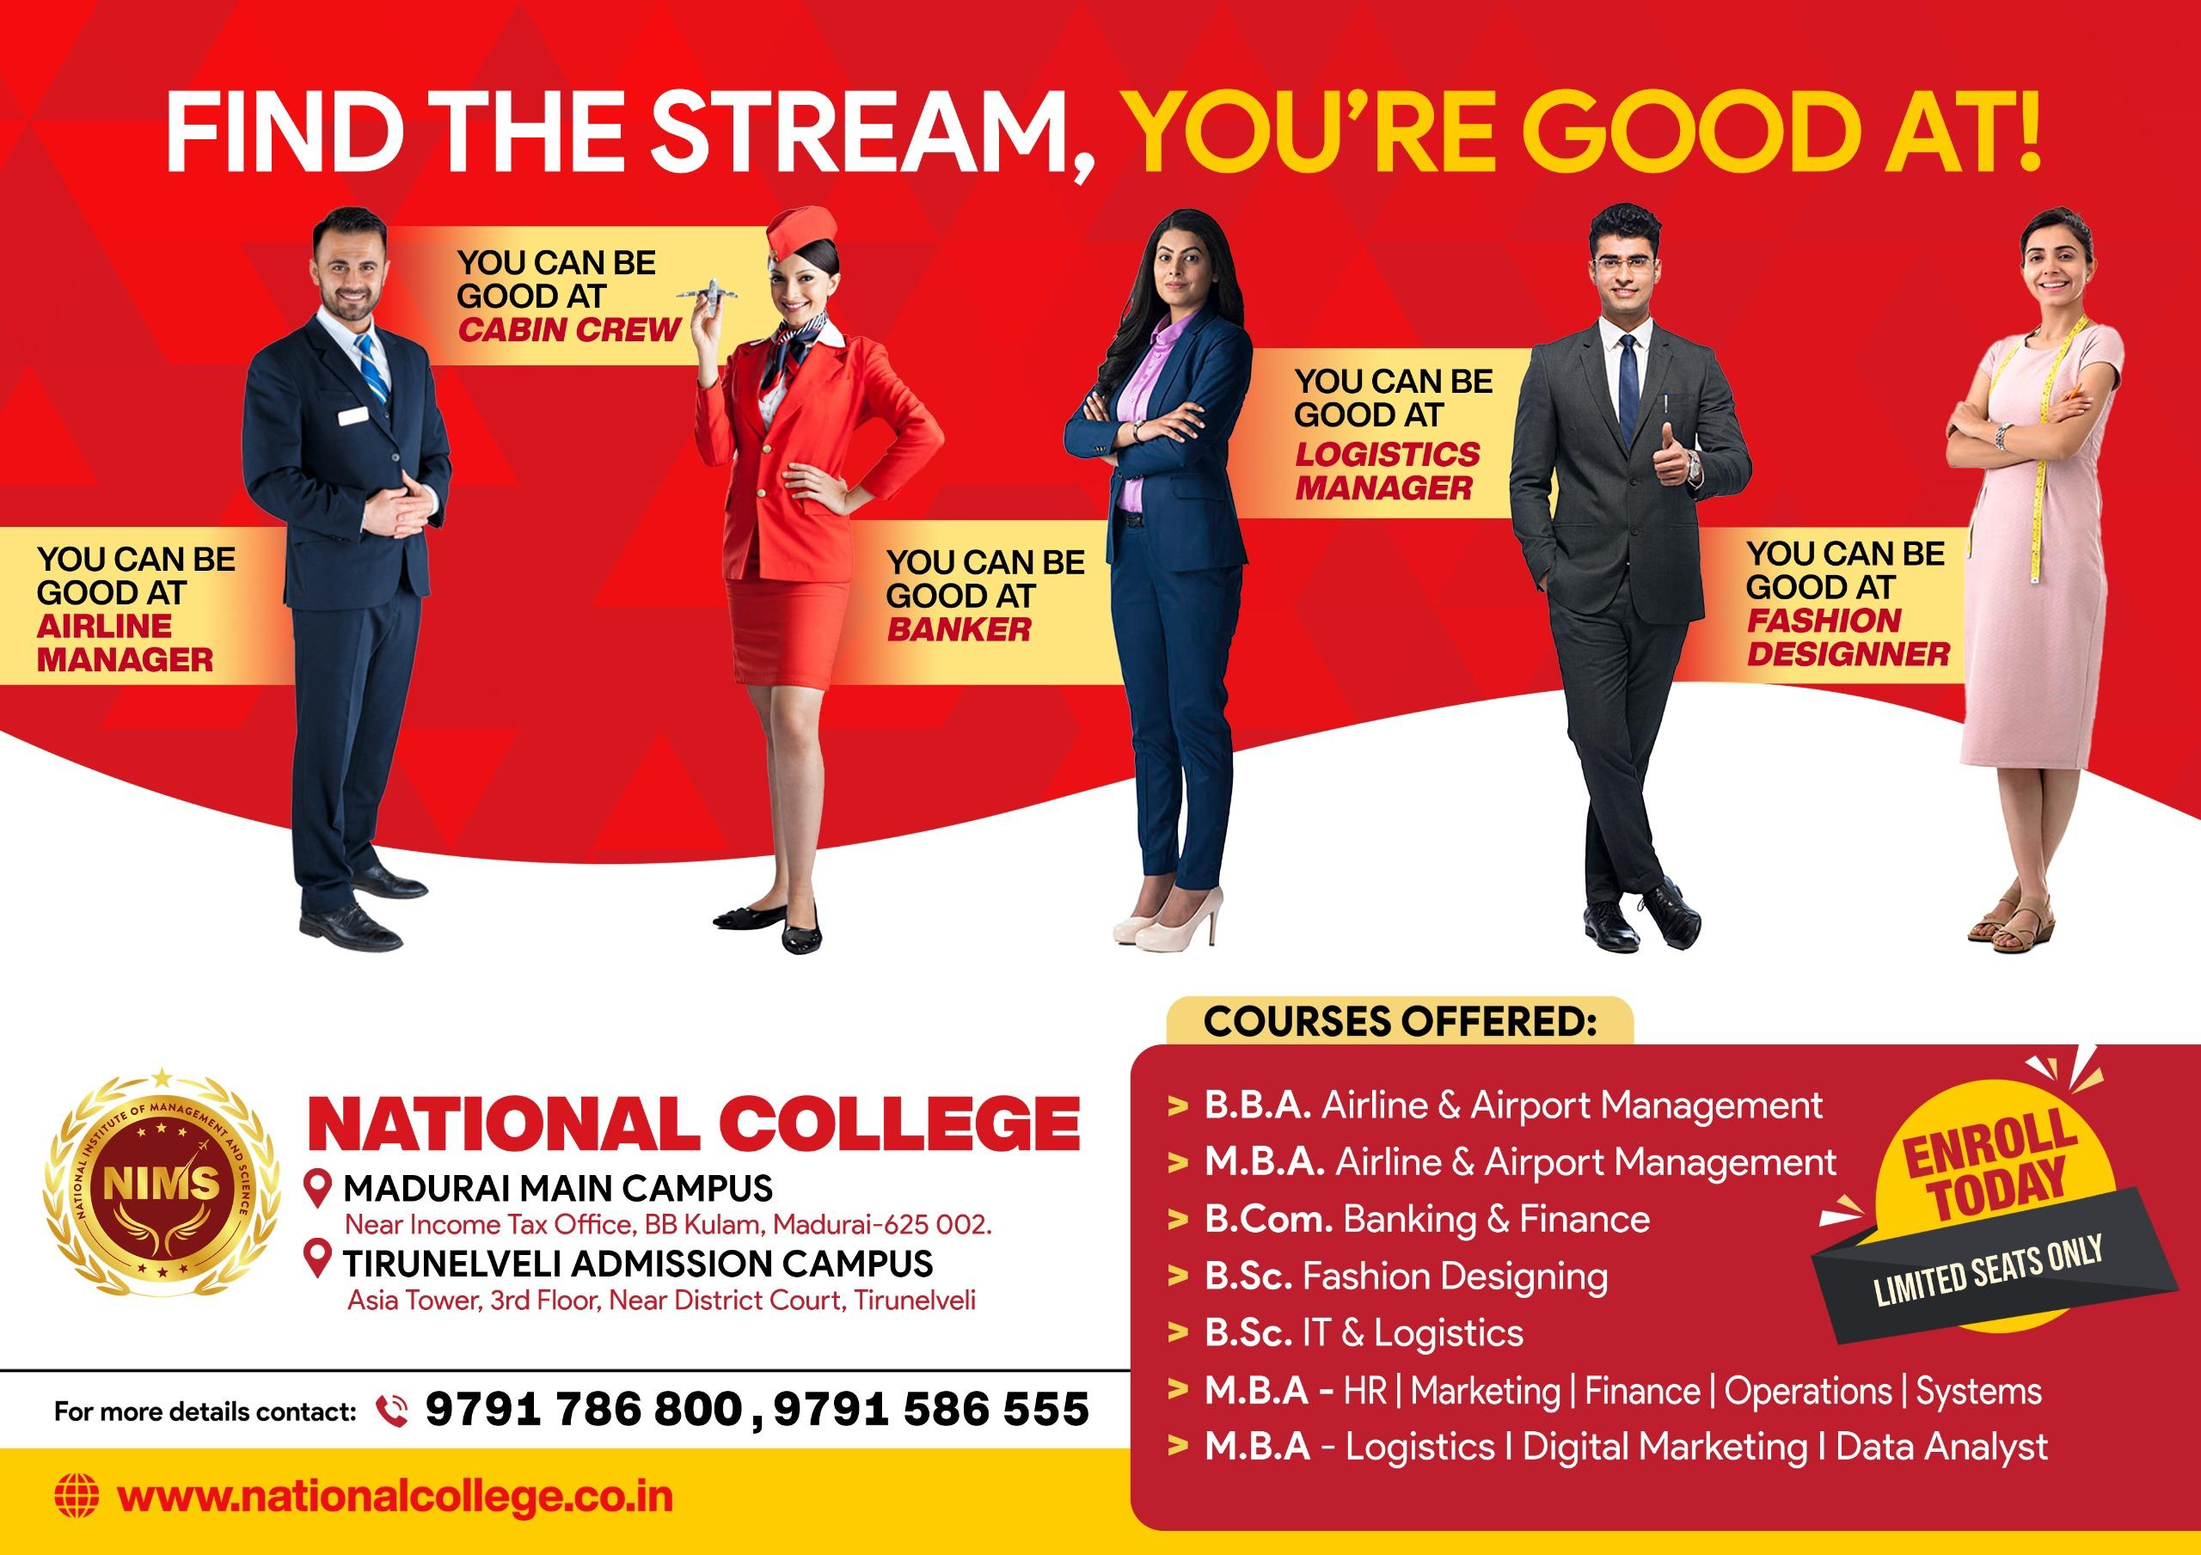
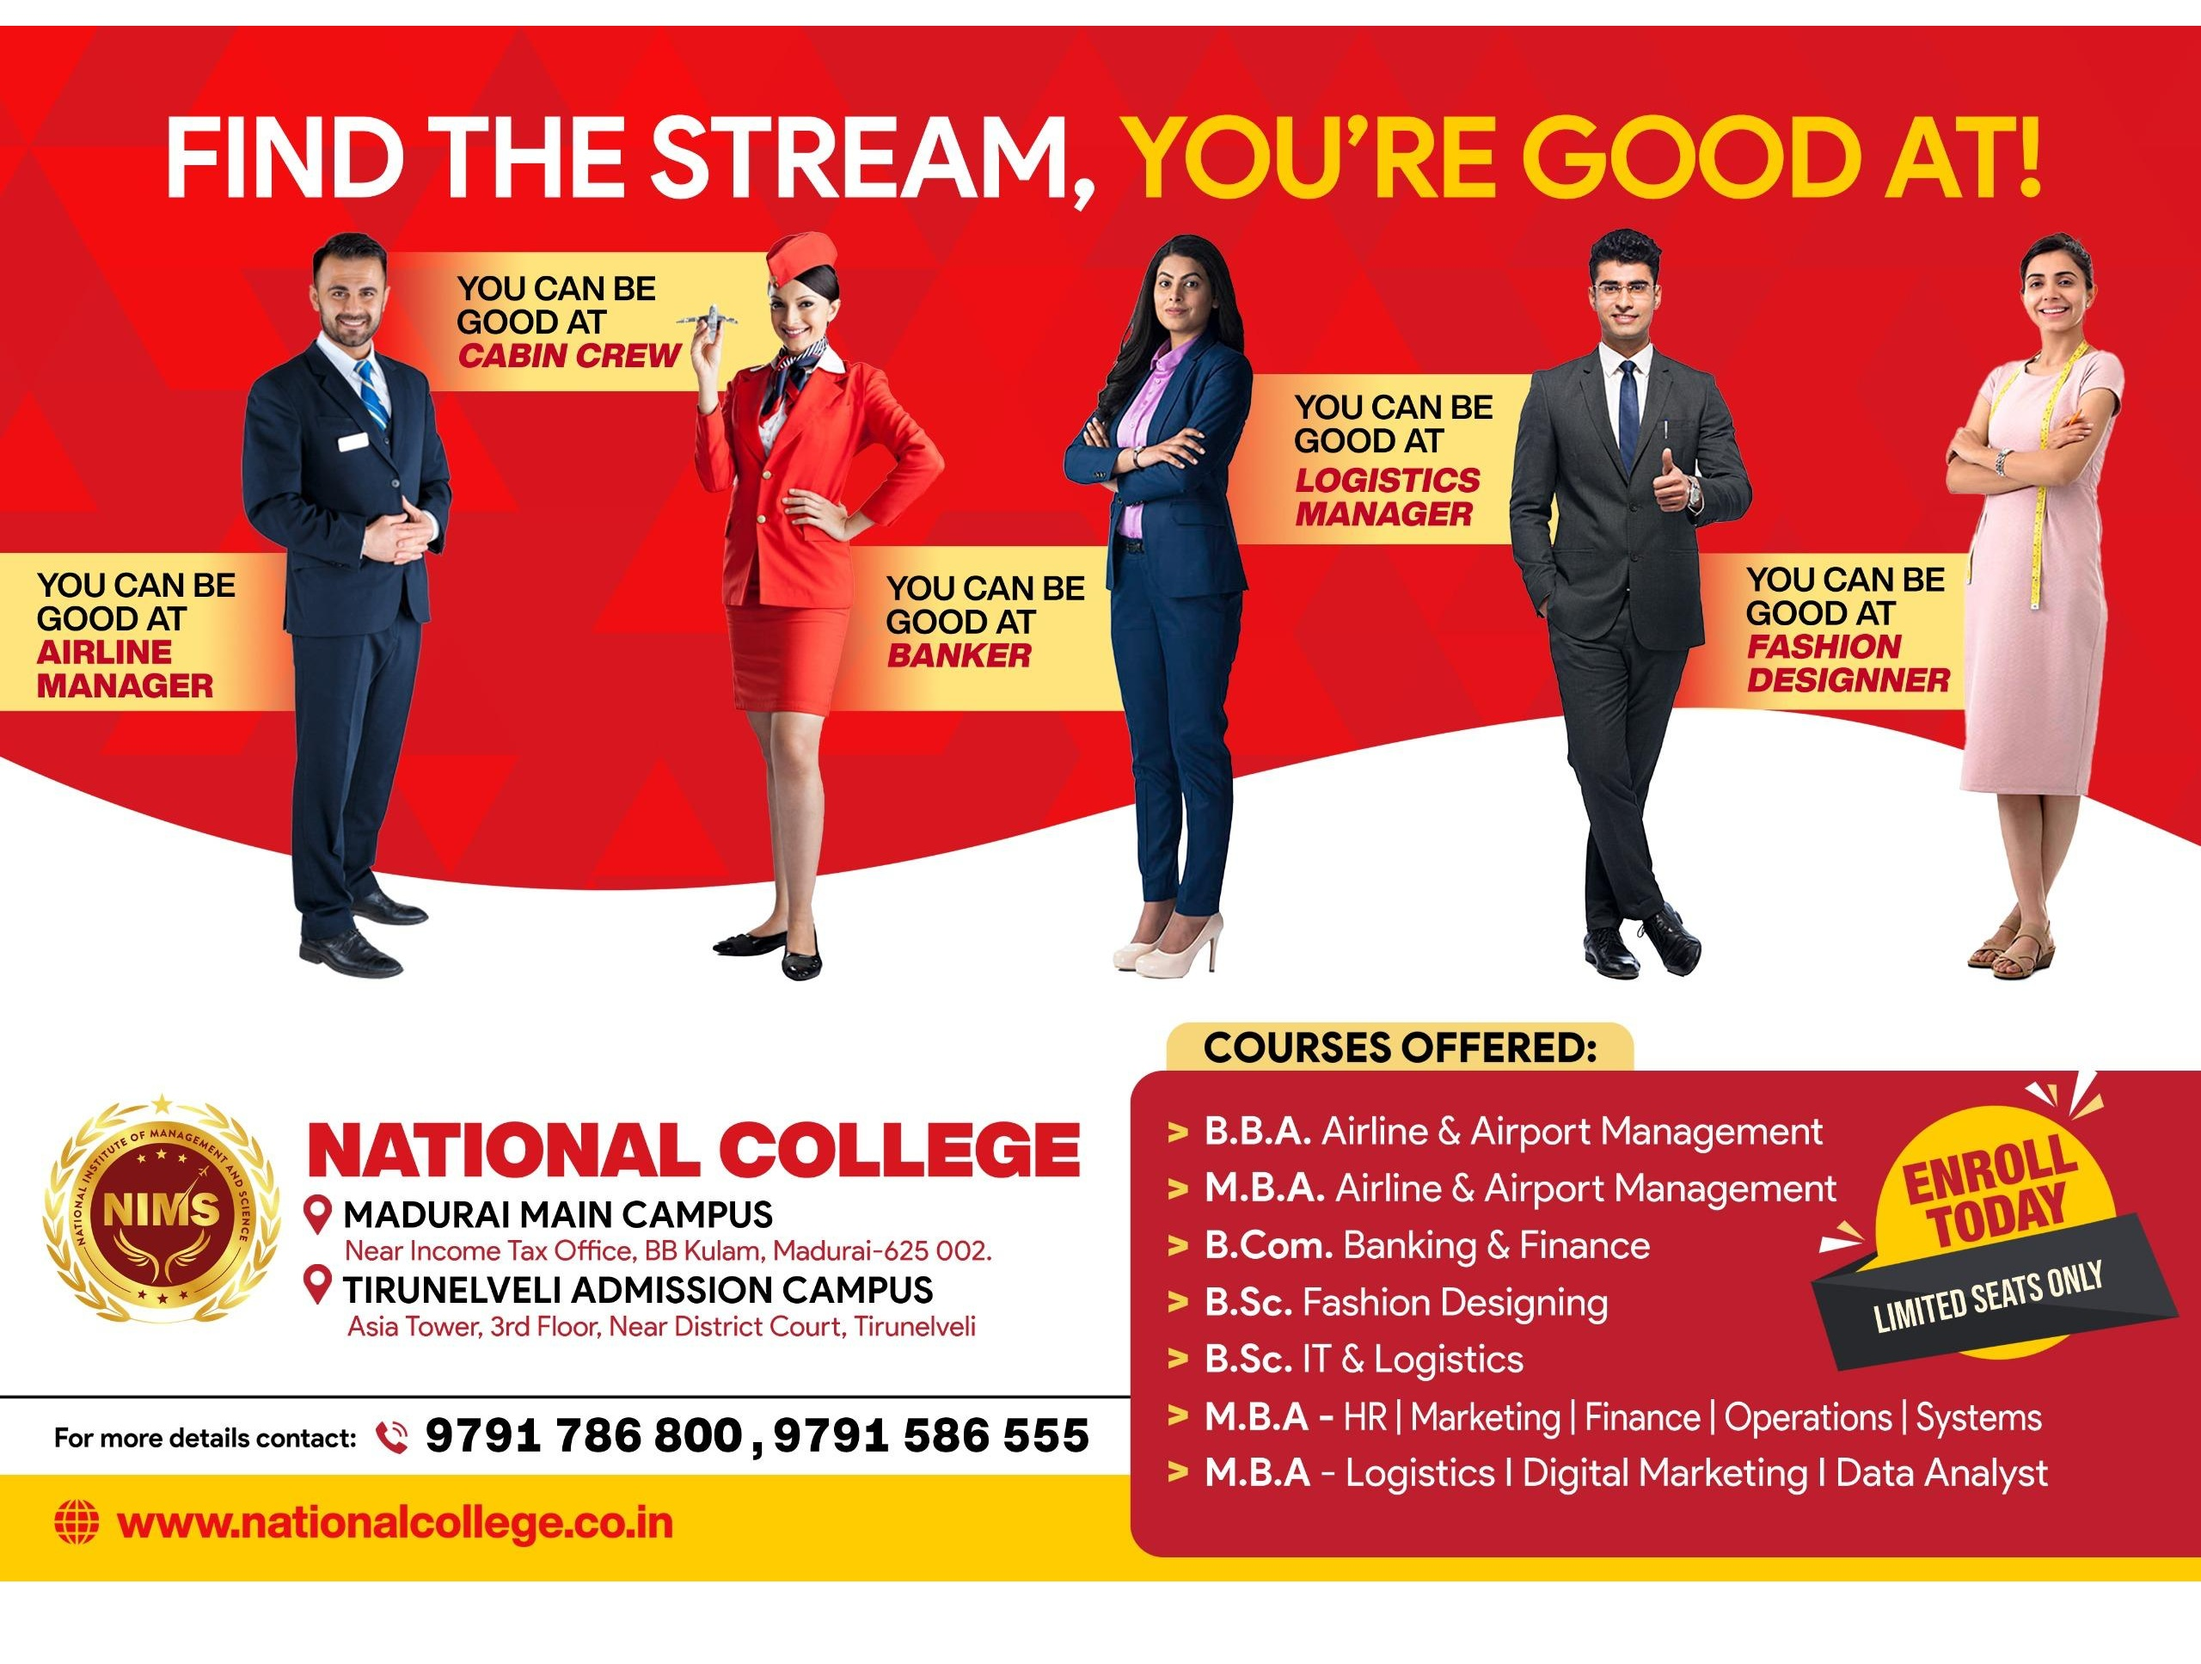
Upload loading

diff --git a/index.html b/index.html
@@ -57,11 +57,7 @@
 
         <!-- IMAGE -->
 
-        <img
-          src="./Images/modalSp.jpeg"
-          alt=""
-          class="modal-img"
-        />
+        <img src="./Images/modalSp.jpeg" alt="" class="modal-img" />
 
         <!-- BUTTON -->
 
@@ -567,7 +563,7 @@
                   <div class="swiper-slide">
                     <div class="academicCard">
                       <div class="academicImg">
-                        <img src="./Images/bba.png" alt="" />
+                        <img src="./Images/bcomBank.png" alt="" />
                       </div>
 
                       <div class="academicContent">
@@ -590,7 +586,7 @@
                   <div class="swiper-slide">
                     <div class="academicCard">
                       <div class="academicImg">
-                        <img src="./Images/mbaair.png" alt="" />
+                        <img src="./Images/bbaShip.png" alt="" />
                       </div>
 
                       <div class="academicContent">
@@ -647,6 +643,30 @@
                   <div class="swiper-slide">
                     <div class="academicCard">
                       <div class="academicImg">
+                        <img src="./Images/mbaHr.png" alt="" />
+                      </div>
+
+                      <div class="academicContent">
+                        <h2>
+                          MBA - Logistics | Digital Marketing | Data Analyst
+                        </h2>
+
+                        <p>
+                          Approved by Alagappa University along with Industry
+                          Skill India Council Certification.
+                        </p>
+
+                        <a href="./Mba2/mba.html">
+                          <button>Apply Now</button>
+                        </a>
+                      </div>
+                    </div>
+                  </div>
+
+                  <!-- CARD2 -->
+                  <div class="swiper-slide">
+                    <div class="academicCard">
+                      <div class="academicImg">
                         <img src="./Images/mbaair.png" alt="" />
                       </div>
 
@@ -665,7 +685,7 @@
                     </div>
                   </div>
 
-                  <!-- CARD2 -->
+                  <!-- CARD3 -->
                   <div class="swiper-slide">
                     <div class="academicCard">
                       <div class="academicImg">
@@ -681,30 +701,6 @@
                         </p>
 
                         <a href="./hr/hr.html">
-                          <button>Apply Now</button>
-                        </a>
-                      </div>
-                    </div>
-                  </div>
-
-                  <!-- CARD3 -->
-                  <div class="swiper-slide">
-                    <div class="academicCard">
-                      <div class="academicImg">
-                        <img src="./Images/mbaHr.png" alt="" />
-                      </div>
-
-                      <div class="academicContent">
-                        <h2>
-                          MBA - Logistics | Digital Marketing | Data Analyst
-                        </h2>
-
-                        <p>
-                          Approved by Alagappa University along with Industry
-                          Skill India Council Certification.
-                        </p>
-
-                        <a href="./Mba2/mba.html">
                           <button>Apply Now</button>
                         </a>
                       </div>

diff --git a/style.css b/style.css
@@ -1422,6 +1422,29 @@ header {
   }
 }
 
+@media (max-width: 425px) {
+  .academicSection {
+    padding: 50px 0px;
+    max-height: 750px;
+  }
+  .ac-head {
+    font-size: 24px;
+  }
+
+  .academicImg img {
+    height: 160px;
+  }
+
+  .academicContent h2 {
+    font-size: 16px;
+  }
+
+  .academicContent p {
+    font-size: 12px;
+  }
+}
+
+
 /* NEW CAMPUS */
 
 /* TIMELINE */
